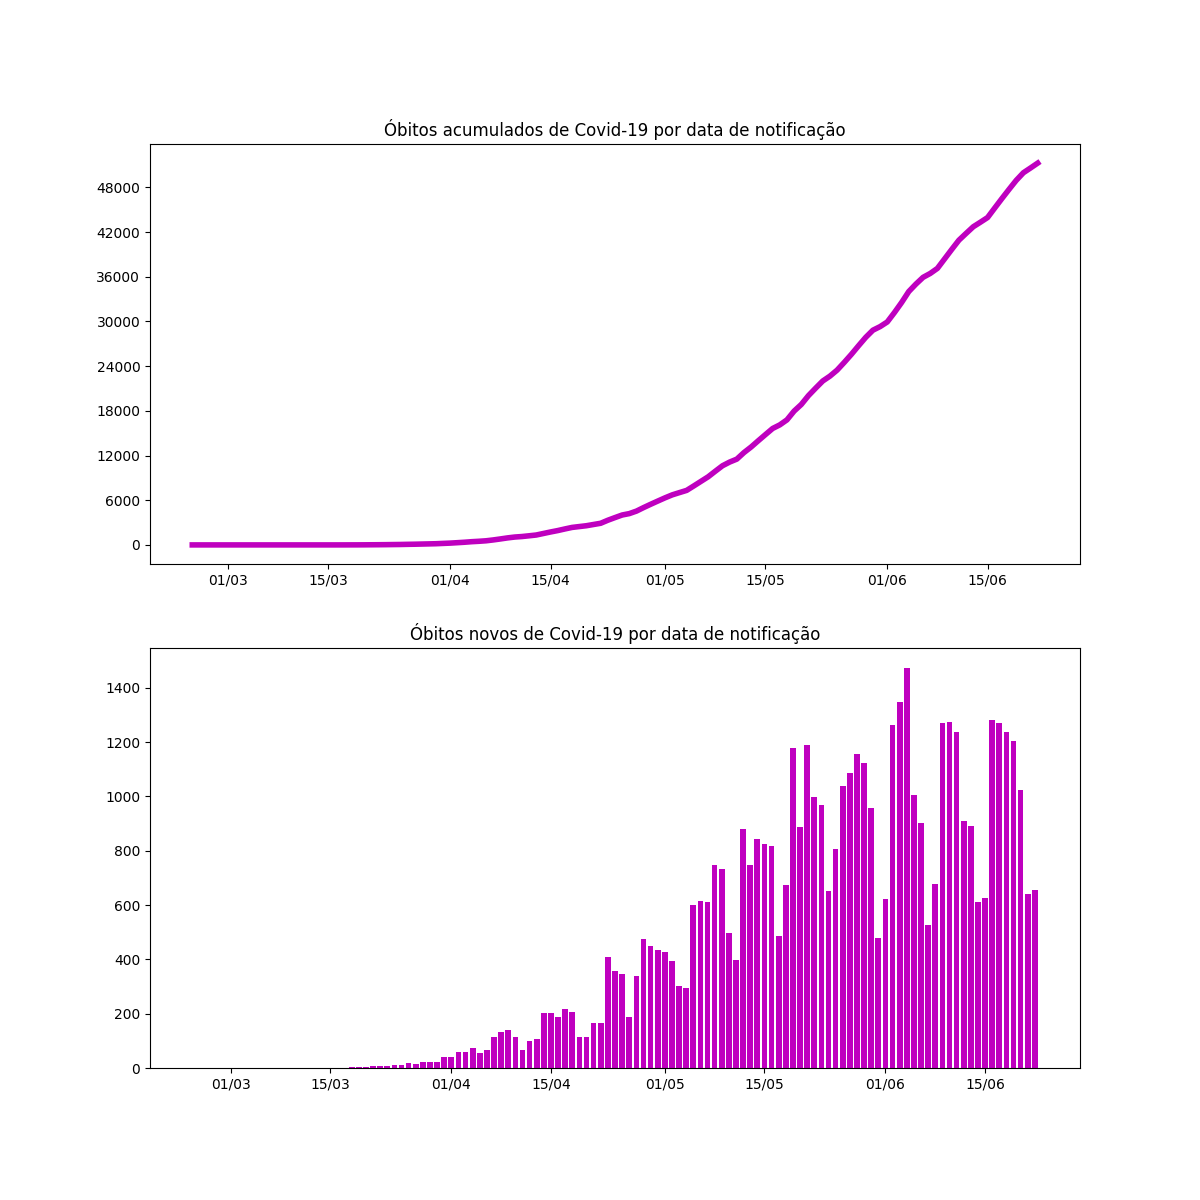
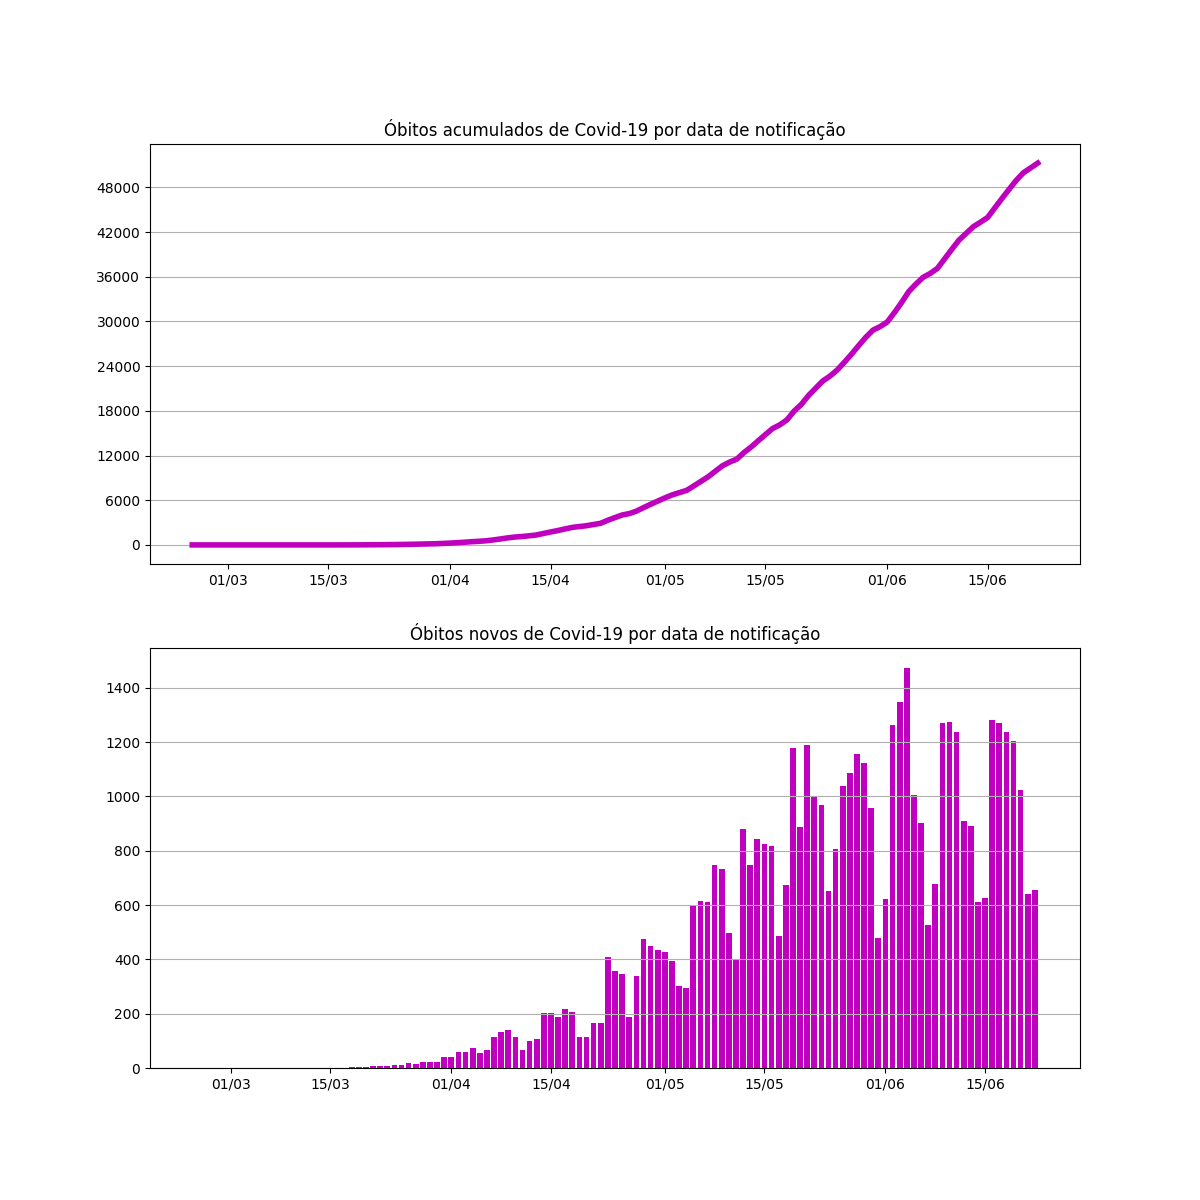
added grids

diff --git a/graphs.py b/graphs.py
@@ -97,6 +97,7 @@ class Grafico:
         return self
 
     def __semilog_plot(self, df, ax, title, color='b'):
+        plt.style.use('fivethirtyeight')
         self.__filename += '-log'
         self.__ax.semilogy(df, color=color)
         self.__ax.set_title(title + ' (escala logarítmica)')
@@ -107,12 +108,14 @@ class Grafico:
         ax.set_title(title)
         ax.yaxis.set_major_locator(MaxNLocator(integer=True))
         ax.xaxis.set_major_formatter(DateFormatter('%d/%m'))
+        ax.yaxis.grid(True)
 
     def __bar_plot(self, df, ax, title, color):
         ax.bar(df.index, df, color=color)
         ax.set_title(title)
         ax.yaxis.set_major_locator(MaxNLocator(integer=True))
         ax.xaxis.set_major_formatter(DateFormatter('%d/%m'))
+        ax.yaxis.grid(True)
 
     def save_as_png(self):
         plt.savefig(f'images/{self.__filename}.png')
